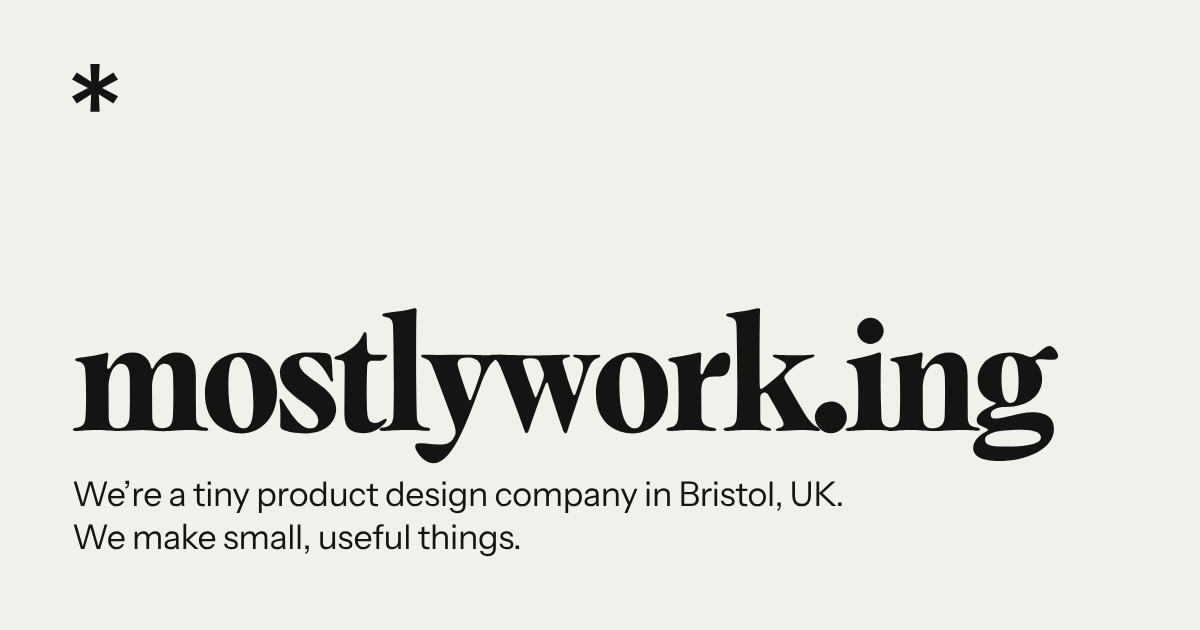
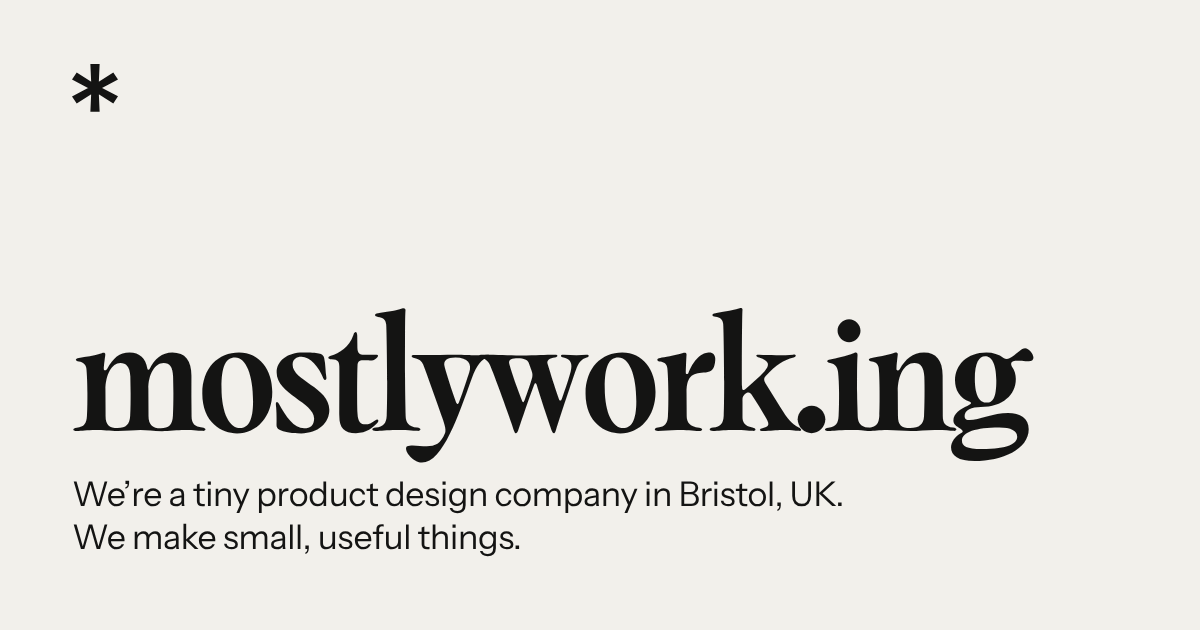
Lighten the main heading to DaVinci Semibold
Bold still read too heavy; Semibold (600) keeps the tight -0.05em
tracking and sits better with the italic project names.

Claude-Session: https://claude.ai/code/session_017UFRXYQtUMif1BB6ZR5QC6

Changed region(s): [[0.0617, 0.4825, 0.8942, 0.754]]

diff --git a/styles.css b/styles.css
@@ -12,8 +12,8 @@
 /* TRIAL licence only: replace with licensed files before this goes live. */
 @font-face {
   font-family: "TRJN DaVinci";
-  src: url("/fonts/trjn-davinci-bold-trial.woff2") format("woff2");
-  font-weight: 700;
+  src: url("/fonts/trjn-davinci-semibold-trial.woff2") format("woff2");
+  font-weight: 600;
   font-style: normal;
   font-display: swap;
 }
@@ -168,7 +168,7 @@ a {
   font-family: var(--display);
   font-size: clamp(40px, 11vw, 184px);
   font-size: clamp(40px, 11cqi, 184px);
-  font-weight: 700;
+  font-weight: 600;
   line-height: 0.82;
   letter-spacing: -0.05em;
   text-wrap: balance;

diff --git a/404.html b/404.html
@@ -12,7 +12,7 @@
 <link rel="icon" href="/favicon.ico" sizes="32x32">
 <link rel="apple-touch-icon" href="/apple-touch-icon.png">
 
-<link rel="preload" href="/fonts/trjn-davinci-bold-trial.woff2" as="font" type="font/woff2" crossorigin>
+<link rel="preload" href="/fonts/trjn-davinci-semibold-trial.woff2" as="font" type="font/woff2" crossorigin>
 <link rel="preload" href="/fonts/instrument-sans.woff2" as="font" type="font/woff2" crossorigin>
 <link rel="stylesheet" href="/styles.css">
 </head>

diff --git a/index.html b/index.html
@@ -24,7 +24,7 @@
 <link rel="icon" href="/favicon.ico" sizes="32x32">
 <link rel="apple-touch-icon" href="/apple-touch-icon.png">
 
-<link rel="preload" href="/fonts/trjn-davinci-bold-trial.woff2" as="font" type="font/woff2" crossorigin>
+<link rel="preload" href="/fonts/trjn-davinci-semibold-trial.woff2" as="font" type="font/woff2" crossorigin>
 <link rel="preload" href="/fonts/instrument-sans.woff2" as="font" type="font/woff2" crossorigin>
 <link rel="stylesheet" href="/styles.css">
 </head>

diff --git a/README.md b/README.md
@@ -6,7 +6,7 @@ A static site with no build step, served by Vercel from the repository root.
 - `404.html`: shown for any path that doesn't exist
 - `styles.css`: shared by both pages
 - `fonts/`: self-hosted [Instrument Sans](https://github.com/Instrument/instrument-sans) and [DM Mono](https://github.com/googlefonts/dm-mono), both under the SIL Open Font License
-- `fonts/trjn-davinci-*-trial.woff2`: [TRJN DaVinci](http://virgileflores.com/typefoundry) by Virgile Flores: Bold for the main heading, Italic for project names. **This is the trial version**: replace it with licensed web font files before the site goes live.
+- `fonts/trjn-davinci-*-trial.woff2`: [TRJN DaVinci](http://virgileflores.com/typefoundry) by Virgile Flores: Semibold for the main heading, Italic for project names. **This is the trial version**: replace it with licensed web font files before the site goes live.
 - `og.png`: the link preview image (1200×630), a render of the homepage's headline
 - `apple-touch-icon.png`, `favicon.*`: icons
 
